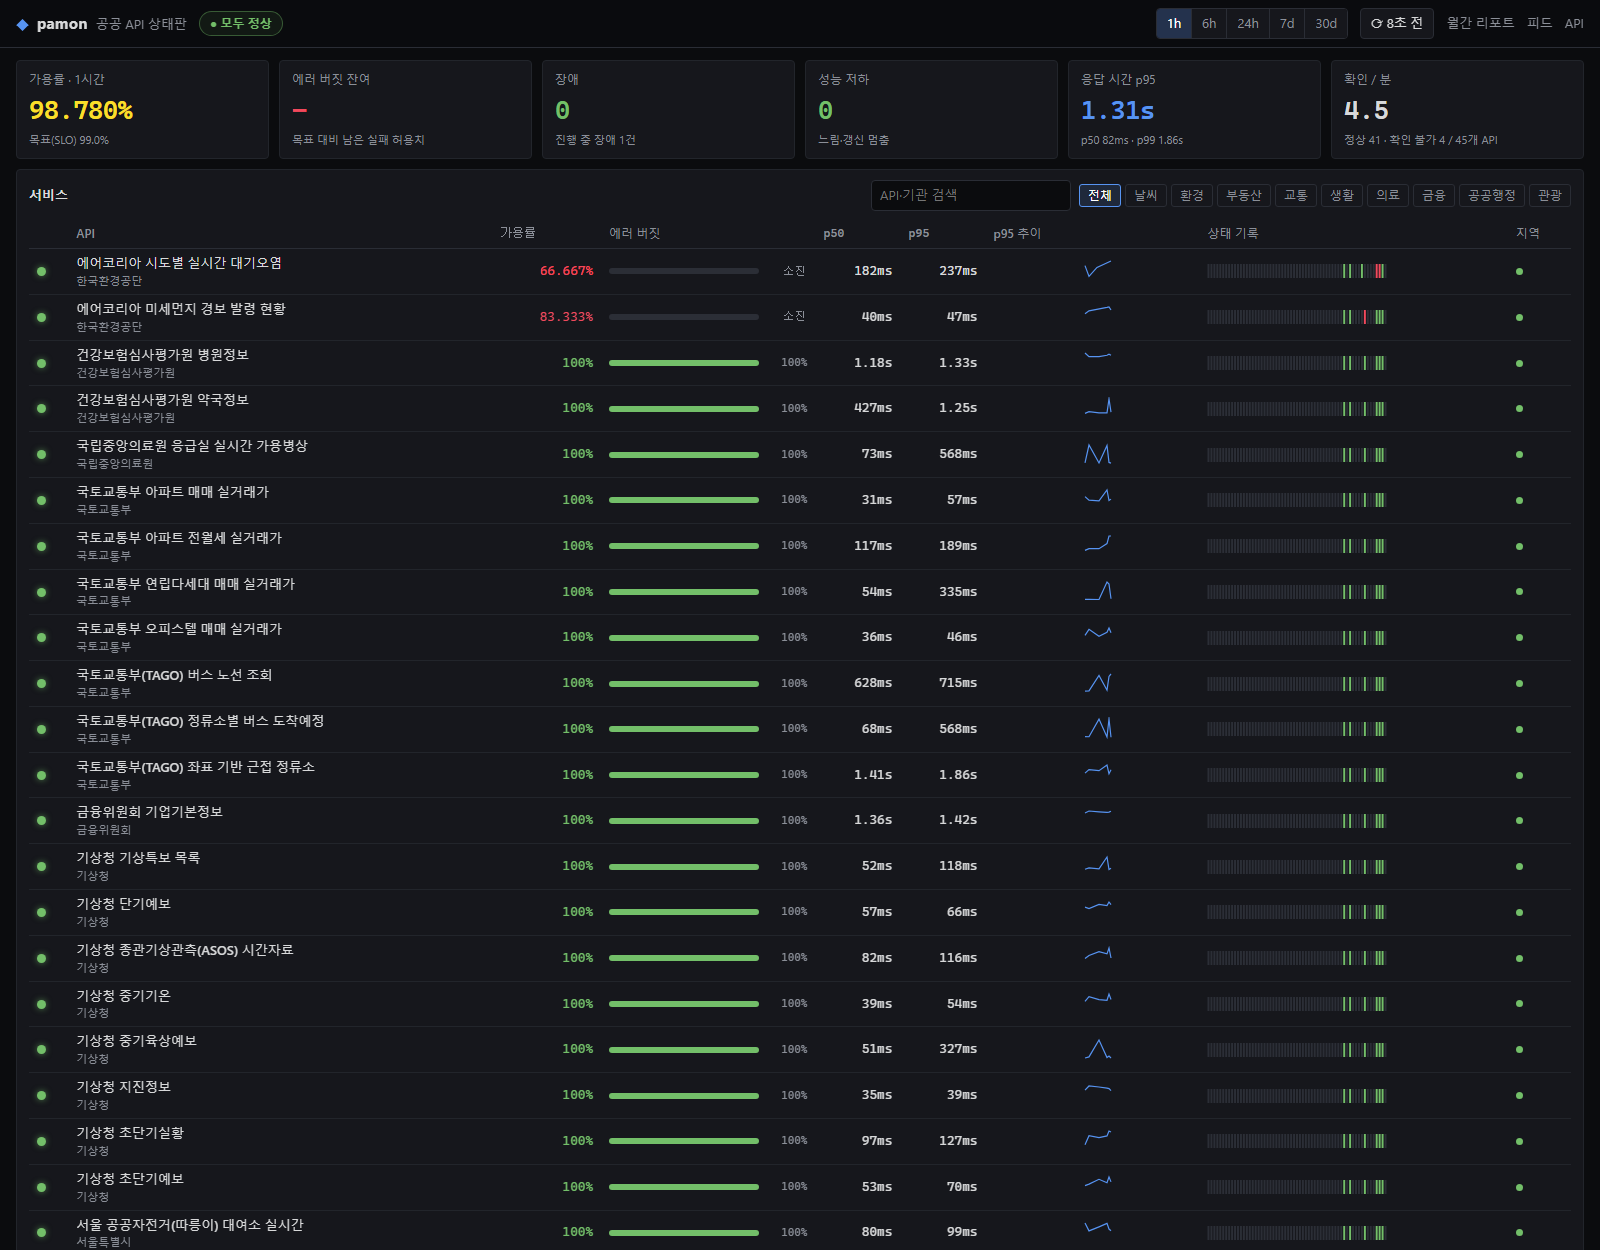
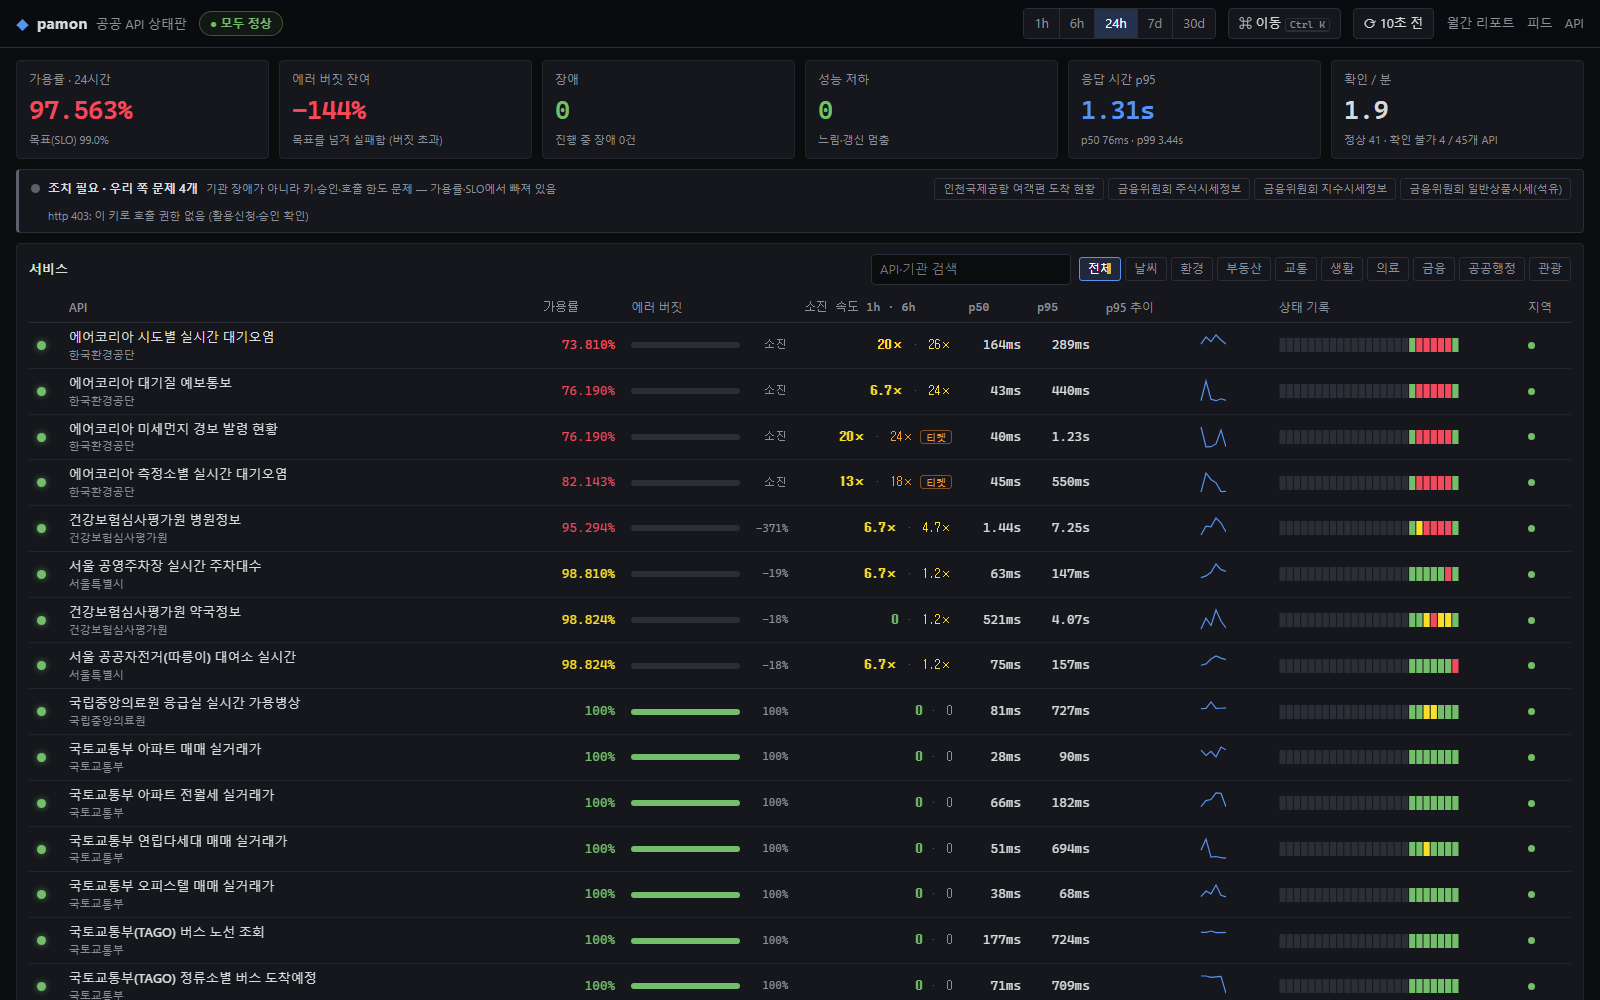
README: fresh screenshots from the running monitor (dashboard, API drawer)

diff --git a/README.md b/README.md
@@ -6,6 +6,18 @@
 
 ![dashboard](docs/img/dashboard.png)
 
+*실제 운영 화면(2026-10-19 새벽).*
+- **조치 필요 배너:** 승인 대기로 403이 나는 API 4개를 우리 쪽 문제로 묶어 보여준다.
+- **소진 속도 열:** 밤새 타임아웃 난 에어코리아 API들의 에러 버짓 소진 속도(burn rate)를 보여준다.
+- **티켓 태그:** 그중 30분 창도 함께 넘은 API에만 붙는다.
+
+![drawer](docs/img/drawer.png)
+
+*API 상세 화면.*
+- **응답 시간:** 이 API의 평소 응답에서 학습한 '느림' 기준선을 함께 그리고, 장애 구간은 붉게 칠한다.
+- **에러 버짓:** 남은 양이 기간 동안 어떻게 줄었는지 보여준다(burn-down).
+- **지역별:** 측정 지역마다 상태를 따로 보여준다.
+
 ## 한눈에
 
 | | |
